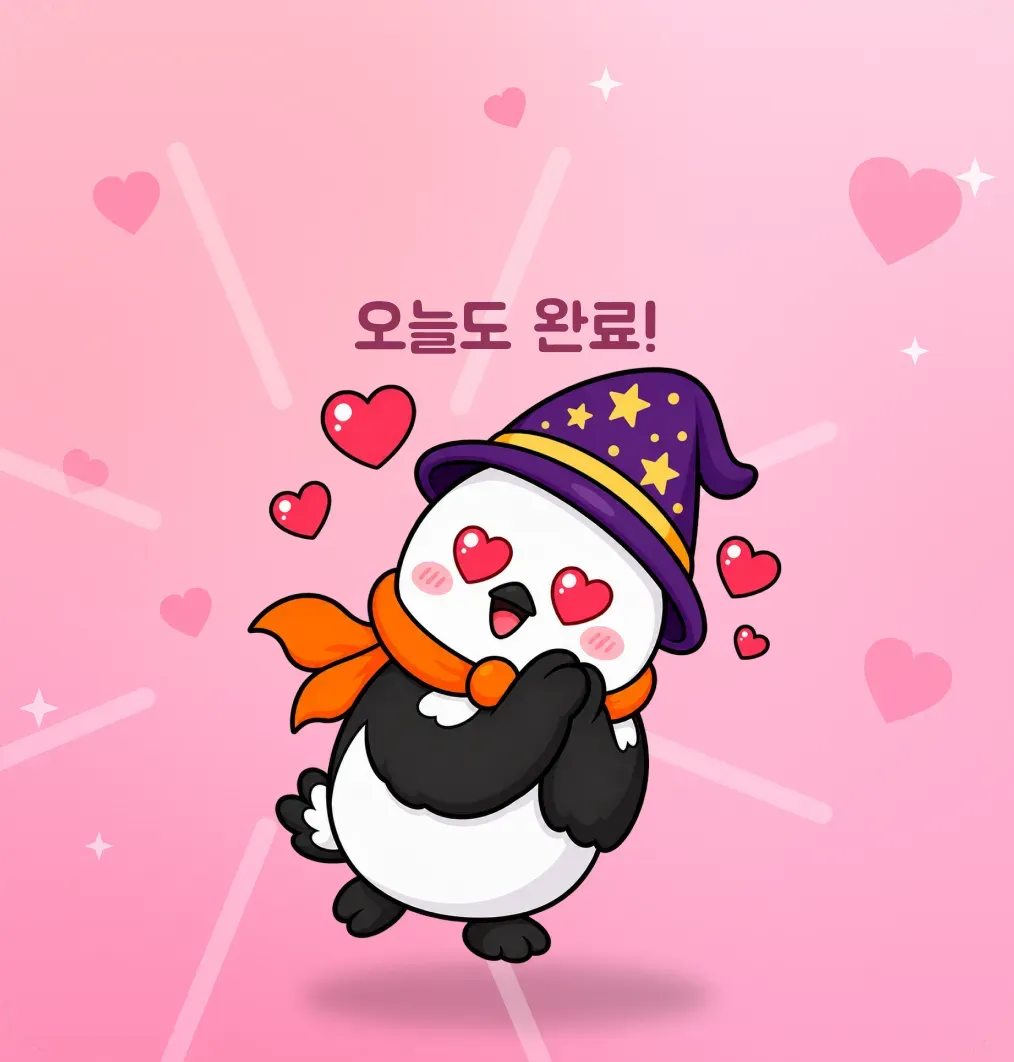
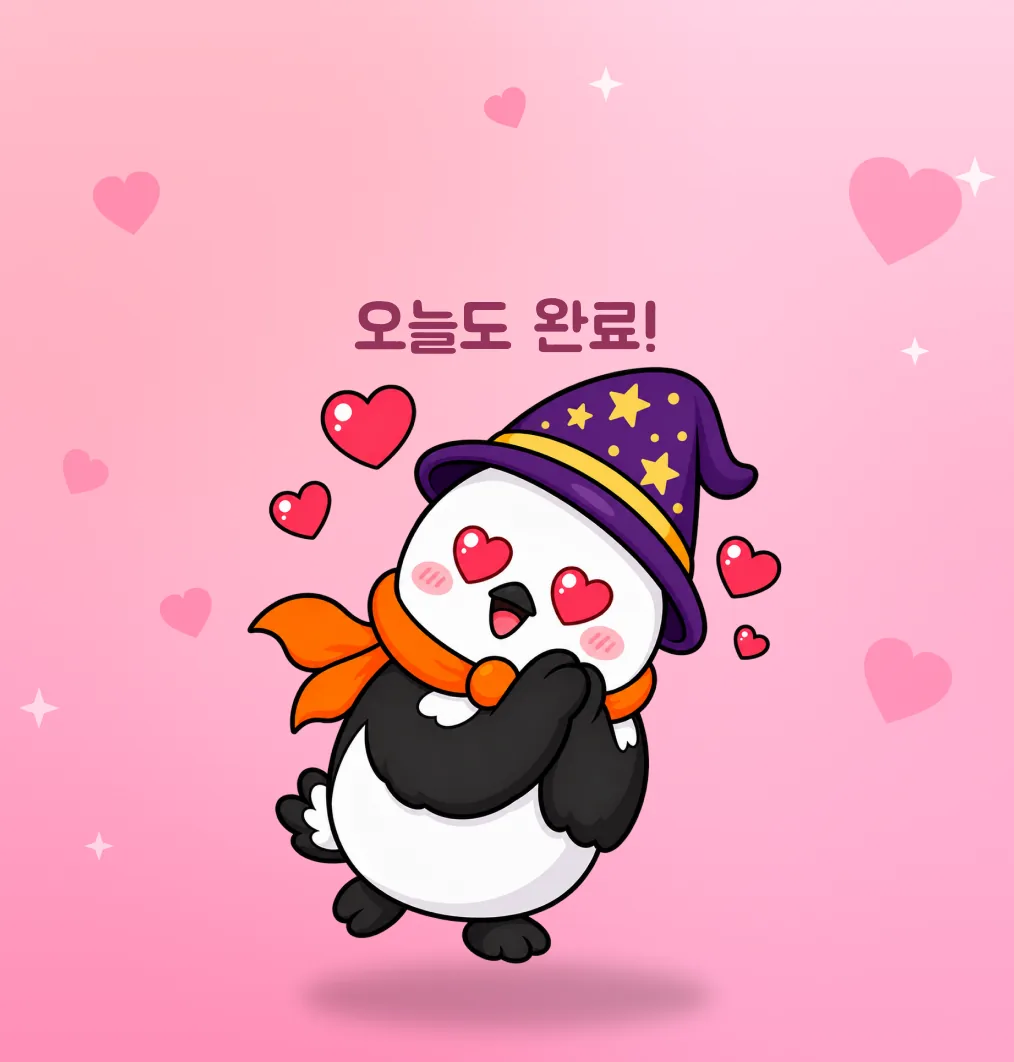
design(mobile): nudge·arrived·love 위젯 아트에서 방사 패턴을 빼고 nudge 4×2·4×4 색을 2×2에 맞춘다
- 세 상태의 4×2·4×4 아트에서 캐릭터 뒤 방사(burst) 패턴을 제거한다
- nudge 4×2·4×4 배경 그라데이션이 2×2와 달랐던 것을 2×2 색으로 통일한다
- 아트가 바뀌었으므로 WIDGET_ART_VERSION을 10→11로 올려 앱이 공유 폴더에 다시 복사하게 한다

diff --git a/apps/mobile/src/widgets/art/widget-art.ts b/apps/mobile/src/widgets/art/widget-art.ts
@@ -1,6 +1,6 @@
 // 위젯 아트 매니페스트 — 상태×사이즈별 webp를 정적 require로 묶는다
 // 생성 파일: scripts/generate-widget-art.mjs 로 다시 만든다 (아트 원본 = 피그마 "🧩 위젯 Final" 보드)
-export const WIDGET_ART_VERSION = 10;
+export const WIDGET_ART_VERSION = 11;
 
 export const WIDGET_ART: Record<string, number> = {
   'arrived-large': require('../../../assets/widgets/arrived-large.webp'),
